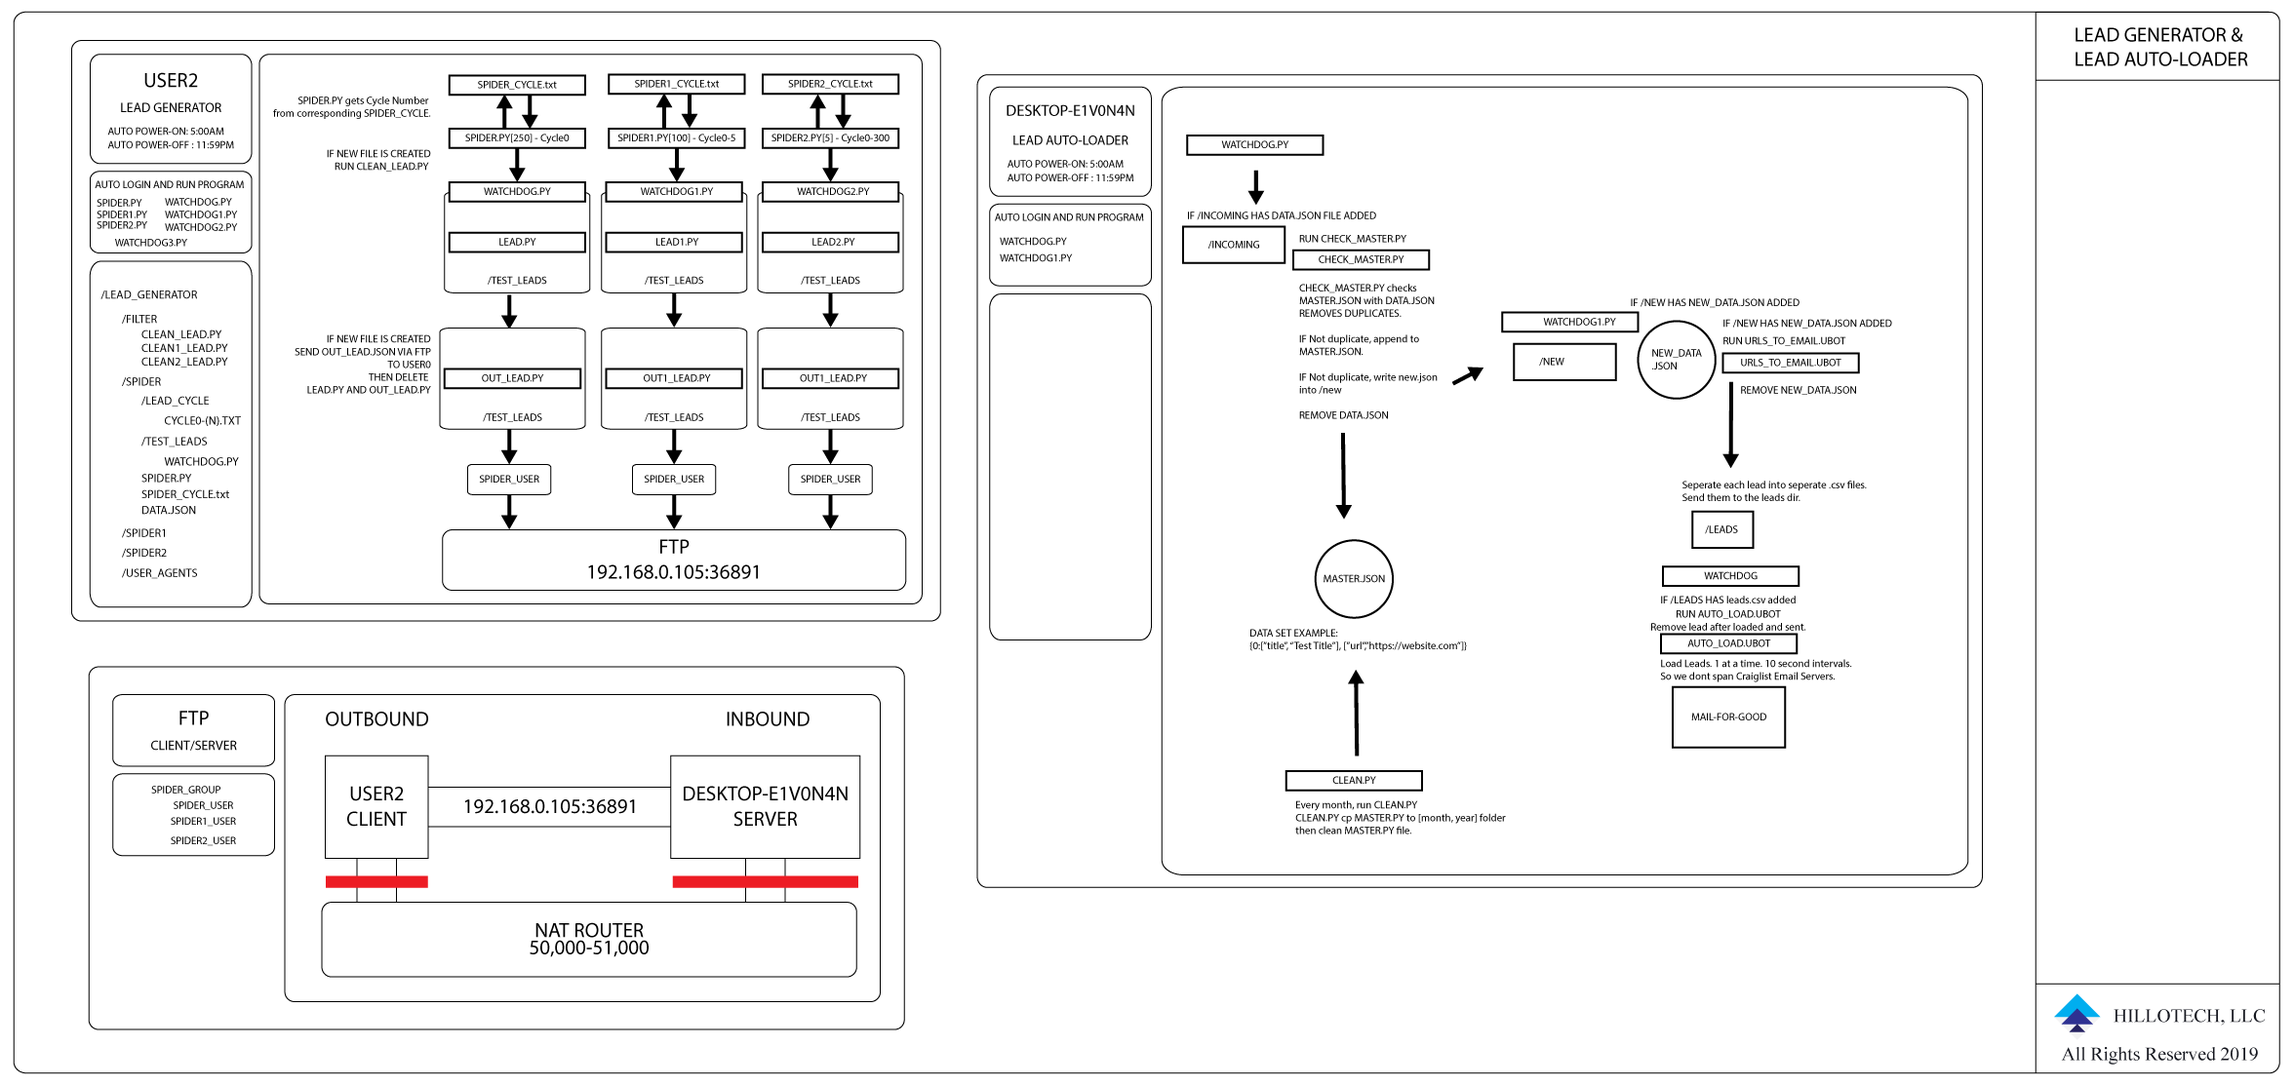
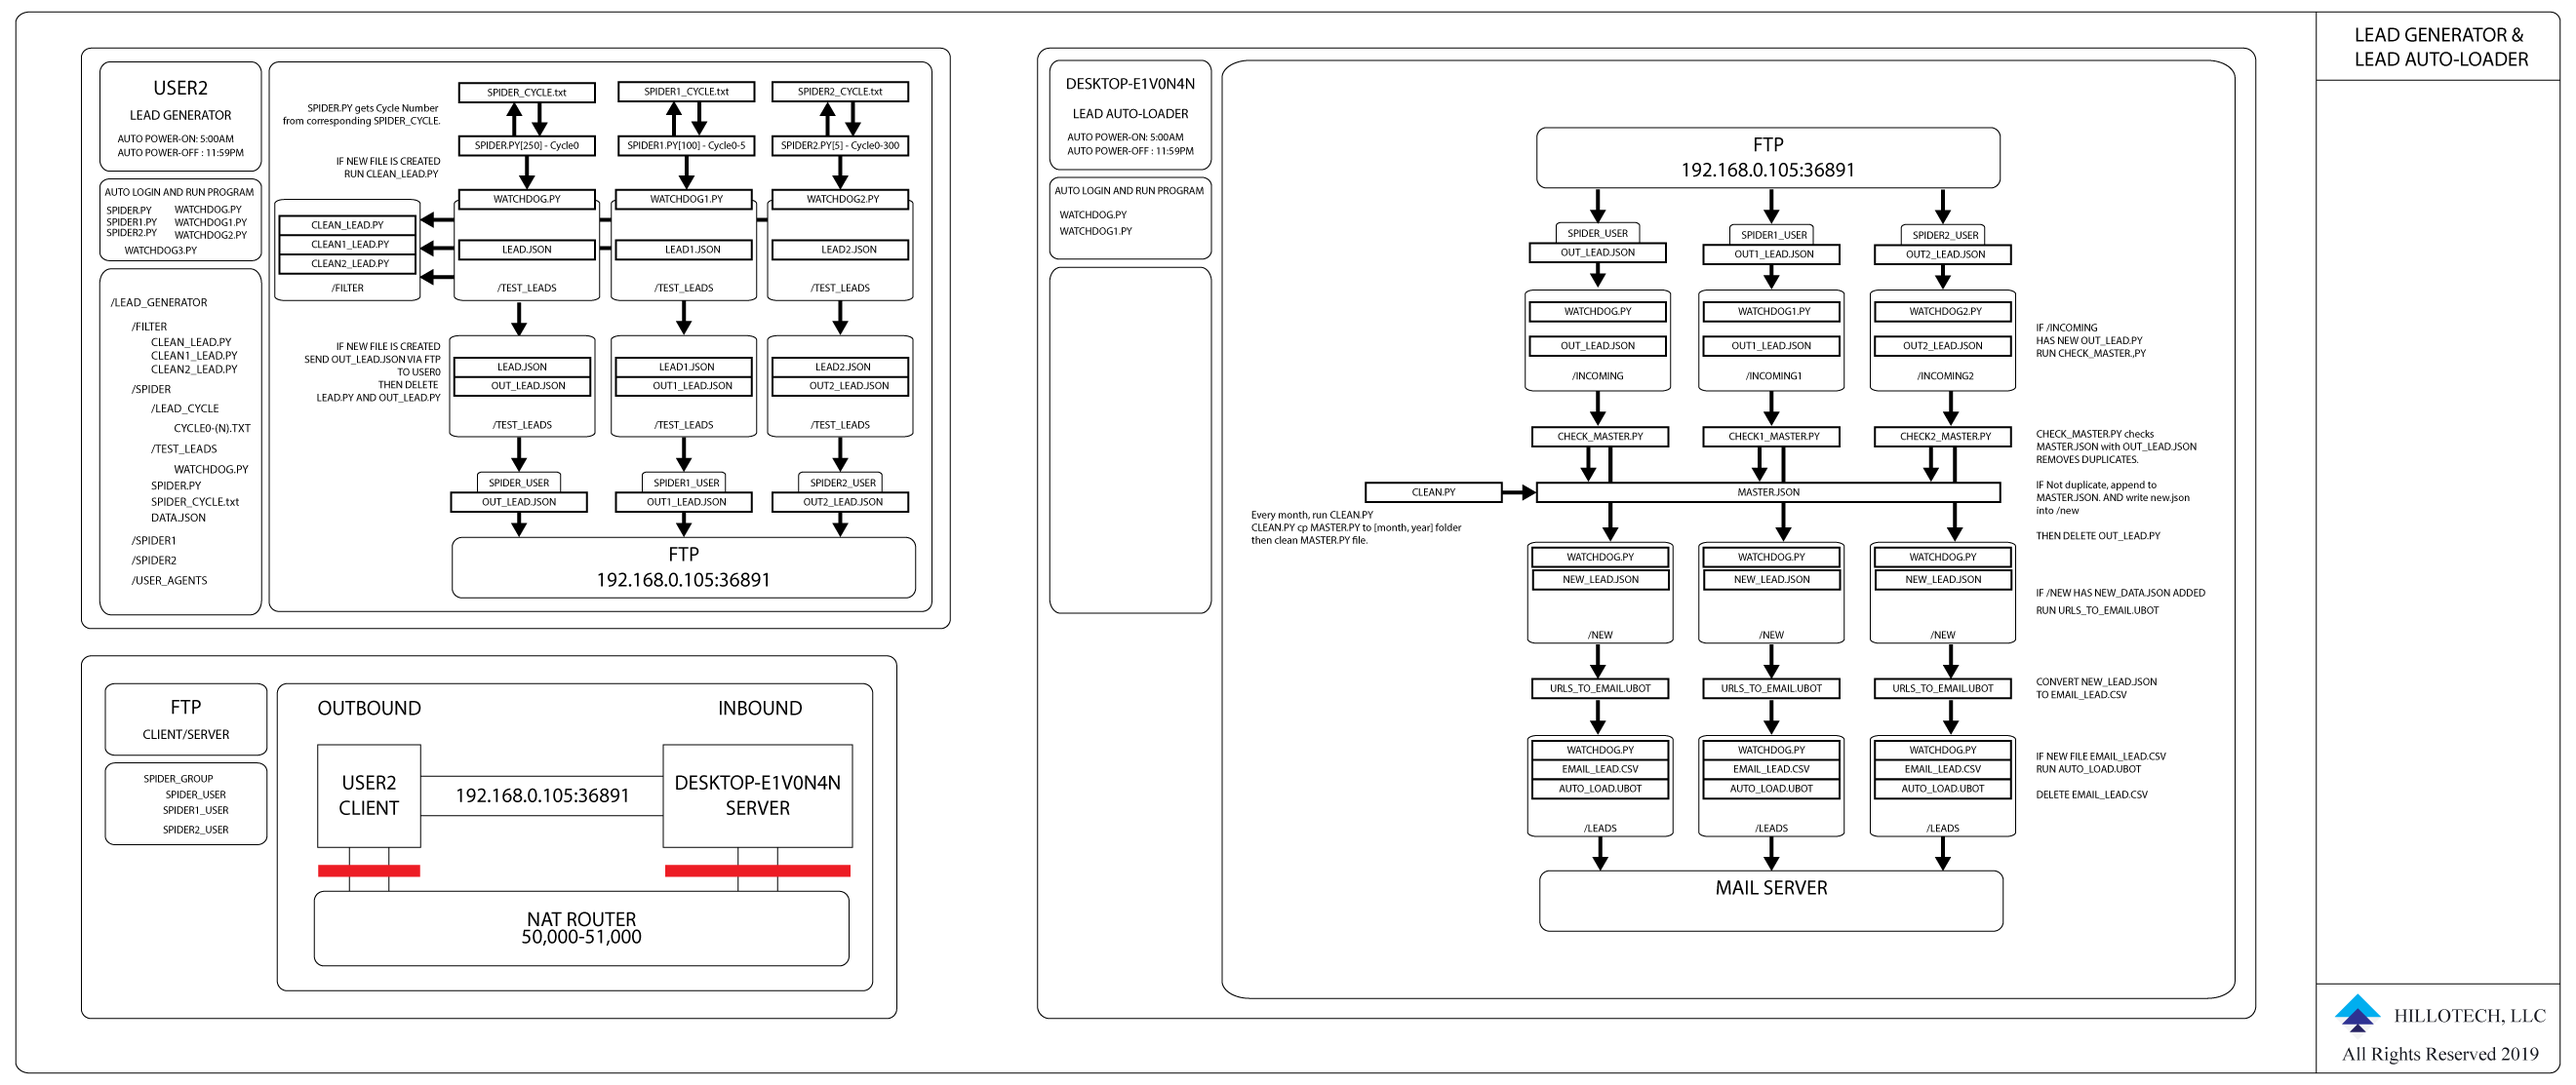
updated blueprint

diff --git a/lead_generator/filter/clean_leads.py b/lead_generator/filter/clean_leads.py
@@ -19,7 +19,6 @@ current_url_number = 0
 # All files paths are relative to the run_watchdog.py file.
 
 
-time.sleep(1)
 
 with open("lead.json", 'r') as json_file:
     data = json.load(json_file)
@@ -53,8 +52,6 @@ with open('out_lead.json', 'w') as outfile:
     json.dump(leads_with_keywords, outfile)
 exit
 
-time.sleep(1)
-
 ftp=FTP_TLS()
 ftp.set_debuglevel(2)
 ftp.connect('192.168.0.105', 36891)
@@ -65,7 +62,6 @@ ftp.storbinary('STOR out_lead.json', file)
 file.close()  
 ftp.close()
 
-time.sleep(1)
 
 os.remove("lead.json")
 os.remove("out_lead.json")
@@ -77,5 +73,3 @@ os.remove("out_lead.json")
 # Currently this is fine for now.
 # But eventually a solution should be for Watchdog to watch 
 # For specific file.
-
-time.sleep(1)

diff --git a/lead_auto_loader/check_master.py b/lead_auto_loader/check_master.py
@@ -1,1 +1,42 @@
-print "test"
+import json
+
+
+
+
+
+
+
+
+
+
+
+
+
+
+
+
+current_lead_number = 0
+current_url_number = 0
+
+with open("incoming/lead.json", 'r') as json_file:
+    data = json.load(json_file)
+    total_number_of_items_in_data = len(data)
+
+    for x in range(0, total_number_of_items_in_data):
+        turn_into_string = str(current_lead_number)
+        lead = (data[turn_into_string])
+        url = lead[1]
+        text_in_url = url["url"]
+
+        print text_in_url
+        current_lead_number+=1
+
+        
+
+
+
+
+
+with open("master.json",'r') as master_json:
+    master = json.load(master_json)
+

diff --git a/lead_auto_loader/incoming/run_watchdog.py b/lead_auto_loader/incoming/run_watchdog.py
@@ -28,7 +28,13 @@ class MyEventHandler(FileSystemEventHandler):
         #files = os.listdir(cwd)  # Get all the files in that directory
         #print("Files in '%s': %s" % (cwd, files))
 
-        os.system('py -2 ../check_master.py')
+        if (self == "test.txt"):
+            print "test"
+        if (self == "test1.txt"):
+            print "test1"
+        if (self == "test2.txt"):
+            print "test2"
+        #os.system('python ../check_master.py')
 
         # Because another file is created which is out_lead.json
         # Watchdog runs the clean_leads script again.
